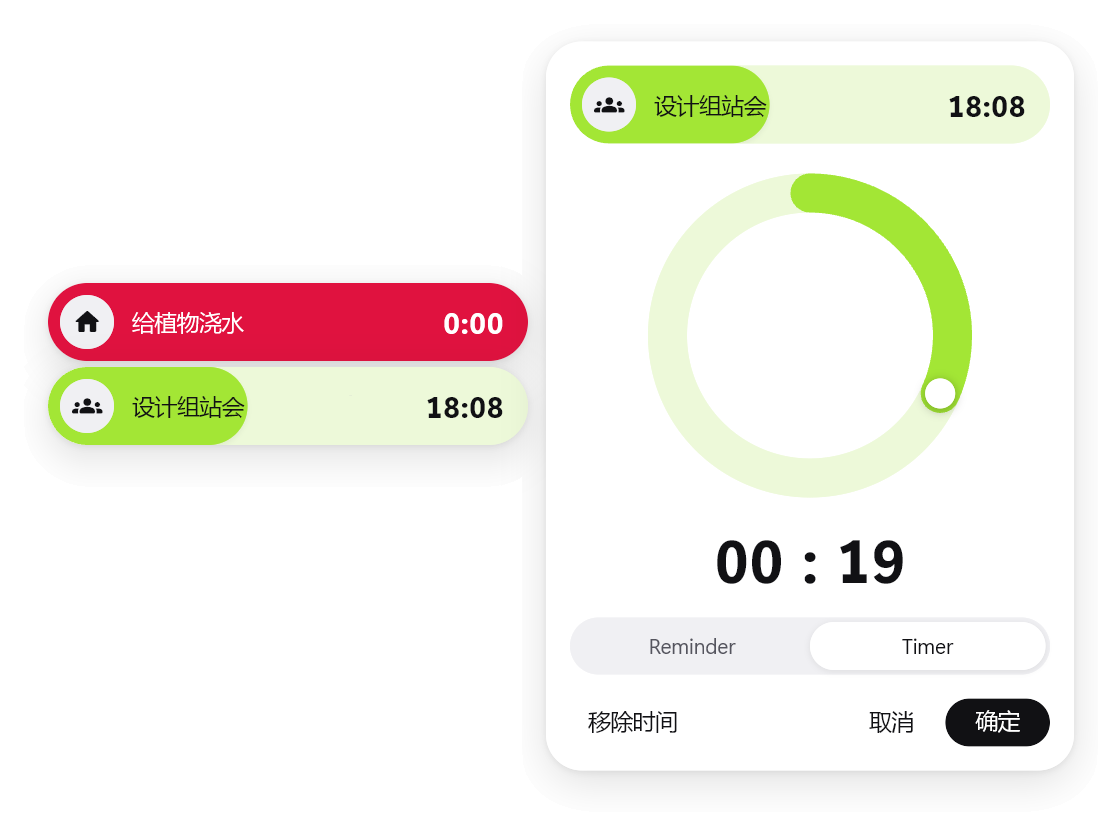
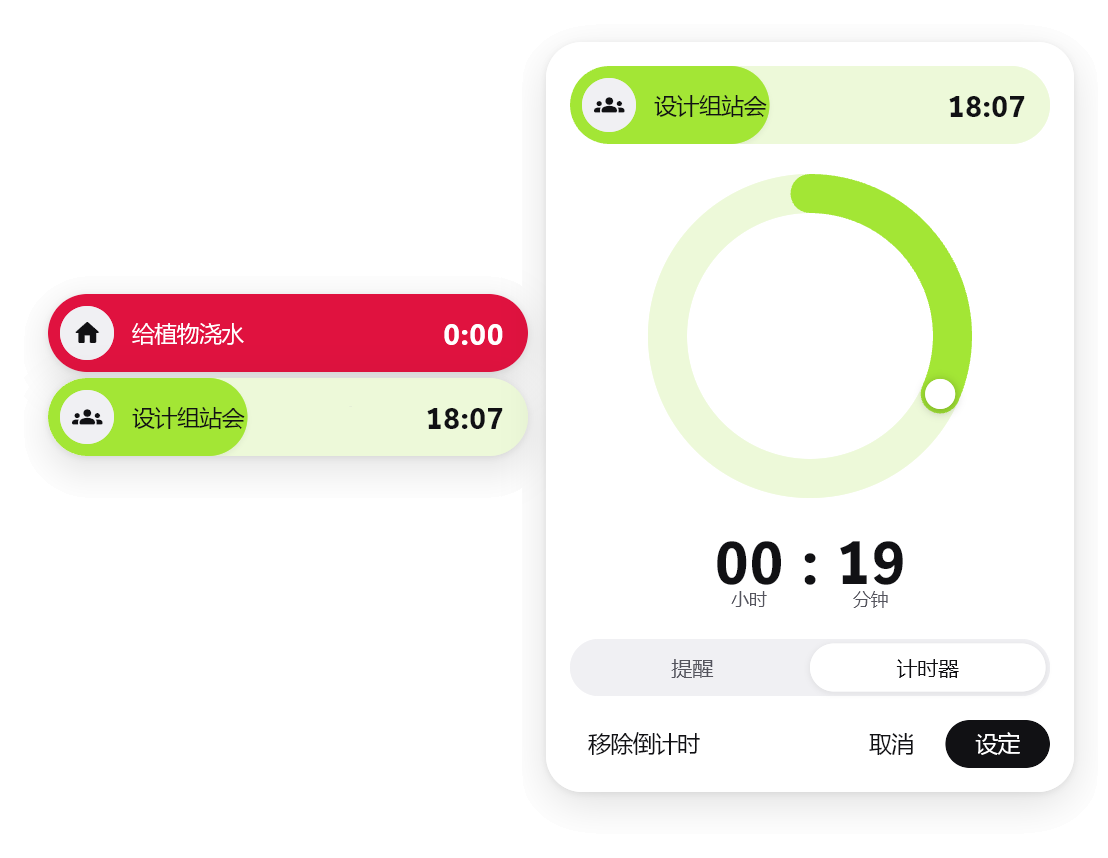
Refresh the docs and screenshots for 1.1.0
The READMEs cover keyboard, Narrator, touch and pen and Windows text
size, the new edit-left-empty rule, the dial's arrow keys, and the
renamed shortcut labels. The screenshots are retaken from the current
build in both languages, and DESIGN.md records the focus ring, the
preview well and the dial. The version is 1.1.0.

diff --git a/lib/settings/about_panel.dart b/lib/settings/about_panel.dart
@@ -18,7 +18,7 @@ class AboutPanel extends StatelessWidget {
   });
 
   /// Keep in step with `version` in pubspec.yaml.
-  static const String version = '1.0.1';
+  static const String version = '1.1.0';
 
   final String dataDir;
   final String prefix;

diff --git a/README.md b/README.md
@@ -39,7 +39,7 @@ Everything in [`docs/top-idea.md`](docs/top-idea.md) is built.
 | Strip | Hover | Neighbouring items fade in above and below; the strip stays put. Near the top or bottom of the screen the rows go to the side with room, and at the bottom the list runs upward |
 | Strip | Wheel / left click / middle click | Scroll / pin an item / return to the pinned one |
 | Strip | Click the time | Pause or resume the countdown |
-| Strip | Right click an item | Edit its text in place (Enter saves, Shift+Enter new line, Esc cancels; an emptied item is deleted) |
+| Strip | Right click an item | Edit its text in place (Enter saves, Shift+Enter new line, Esc cancels; clearing the text puts the old text back, and a new item left empty is removed) |
 | Strip | Click the add slot | Creates an item and opens it for editing |
 | Strip | Drag | Moves the window; the position is saved |
 | Strip | Double click | Opens the list (at most half the screen high) |
@@ -48,7 +48,7 @@ Everything in [`docs/top-idea.md`](docs/top-idea.md) is built.
 | List | Double click or right click an item | Opens the side editor beside its row: text, icon palette, tags, delete. It follows the row and closes for good once the row scrolls out of view |
 | Strip or list | Long press and drag an item | The window dims and tag zones appear around it; drop on one to apply it |
 | Tag: Sink / Float | Drop | Sinks the item to the bottom (dimmed, timer paused), or floats it back |
-| Tag: Countdown | Drop | Opens the ring dial: drag the knob, scroll the ring (±5 min), hours (±1 h) or minutes (±1 min); one lap per hour, up to 12 h; Reminder or Timer |
+| Tag: Countdown | Drop | Opens the ring dial: drag the knob, scroll the ring (±5 min), hours (±1 h) or minutes (±1 min); ↑ / ↓ (±1 min); one lap per hour, up to 12 h; Reminder or Timer. Enter sets, Esc cancels |
 | Tag: Expand / Collapse | Drop | The pinned strip grows a detail card with the full text (raised to fit when the strip is near the bottom, as is the inline editor) |
 | Any item | Drop an image file or image URL on it | It becomes the item's icon (centre-cropped to 128 px) |
 | Any item | Drop or paste text | Appended to the item's text (with nothing selected, a paste creates a new item) |
@@ -89,15 +89,33 @@ prefix is taken by OneHit, so it never types into the app that has focus.
 | `H` | Hide or show OneHit |
 | `L` | Open or close the list |
 | `N` | New item, open for editing |
-| `E` | Edit the pinned item |
+| `E` | Edit the current item (the one in the strip) |
 | `V` | Clipboard text or image as a new item |
-| `T` | Time dial for the pinned item |
-| `P` | Pause or resume the pinned item's countdown |
+| `T` | Open the countdown dial for the current item |
+| `P` | Pause or resume the current item's countdown |
 | `J` / `K` | Next / previous item |
 | `S` | Settings |
 
 If another app already holds the prefix, the settings panel says so in red;
 record a different one there.
+
+### Keyboard, Narrator, touch and pen
+
+- **Keyboard:** Tab moves through the list rows, the add slot, and the
+  controls in the side editor, dial and settings; Enter or Space activates
+  them. A focus ring shows only while you use the keyboard. Enter on a list
+  row opens its side editor with the text ready to type; Esc closes it and
+  puts focus back on the row.
+- **Narrator:** items read as their text and the time left, and Narrator
+  announces a countdown that ends.
+- **Touch and pen:** tap the strip to open the preview and drag it to
+  scroll; it closes after 5 seconds untouched. Hold an item and lift to edit
+  it (what a right click does), or hold and move to drag it to the tag
+  zones. The pen's barrel button works as a right click.
+- **Scaling:** OneHit follows Windows Settings → Accessibility → Text size,
+  stays sharp across monitors with different scaling, and goes back to its
+  display when that display is plugged in again. Precision touchpads scroll
+  the strip and the dial like a wheel.
 
 ### Settings
 
@@ -192,7 +210,7 @@ lib/
     storage.dart                JSON files in the app support folder
     info_item_view.dart         the pill: icon disc, text, time cell, LapPainter
     item_cards.dart             detail card, inline editor, add slot
-    item_gestures.dart          click / double click / right click / long press / move
+    item_gestures.dart          click / double click / right click / long press / move, for mouse, touch and pen
     icon_image.dart             image file, URL or clipboard → 128 px icon
   shell/                        the screen-sized window that hosts everything
     shell.dart                  state: mini/list, selection, tag drag, dial, panels, drops, paste, tray, shortcuts

diff --git a/DESIGN.md b/DESIGN.md
@@ -227,11 +227,14 @@ A strip-sized Add Mint pill with a 1.5px Add Green outline, a 20px add icon and 
 - **Drag:** a plain drag on the strip moves the window. Long press lifts the item for tag drag: the window dims to 40% and the tag zones fade in beside it.
 
 ### Panel
-The detached surface for everything that is not an item: the side editor, settings, about, and the shortcut hint.
-- **Shape:** Pill White card, 20px radius, Lift shadow, 16 to 20px padding. Settings is 400px wide and scrolls when taller than the screen; about is 340px; the hint is 240px.
+The detached surface for everything that is not an item: the side editor, the time dial, settings, about, and the shortcut hint.
+- **Shape:** Pill White card, 20px radius, Lift shadow, 16 to 20px padding. Settings is 400px wide and scrolls when taller than the screen; about is 340px; the hint is 300px. Panel lengths scale with the Windows text size.
 - **Placement:** beside the strip or list, on whichever side has room, vertically centred on it and kept 8px inside the screen.
 - **Sections:** a small bold Ink Soft label over the rows.
 - **Controls:** pills on Disc Grey that turn Near-Black with white text when selected (display choice, toggles); round Disc Grey icon buttons; steppers (− value +) in one Disc Grey pill.
+- **Focus:** a control with keyboard focus gets an Ink ring hugging its pill. It shows only while the keyboard is in use, never on click.
+- **Preview well:** the font preview's strip sits in a Disc Grey well, concentric with the pill, so a white pill keeps its edge on the white panel.
+- **Time dial:** the ring, then hours : minutes in title type with "Hours" and "Minutes" in Ink Soft under the digits, so 00 : 19 never reads as seconds. It opens where the side editor sits, and the editor steps aside until the dial closes.
 - **Key chip:** a 28px-high Disc Grey pill holding a key name in bold body type with tabular figures, hugging its label. While recording, it turns Near-Black and reads "按下按键…".
 
 ### Tray and app mark
